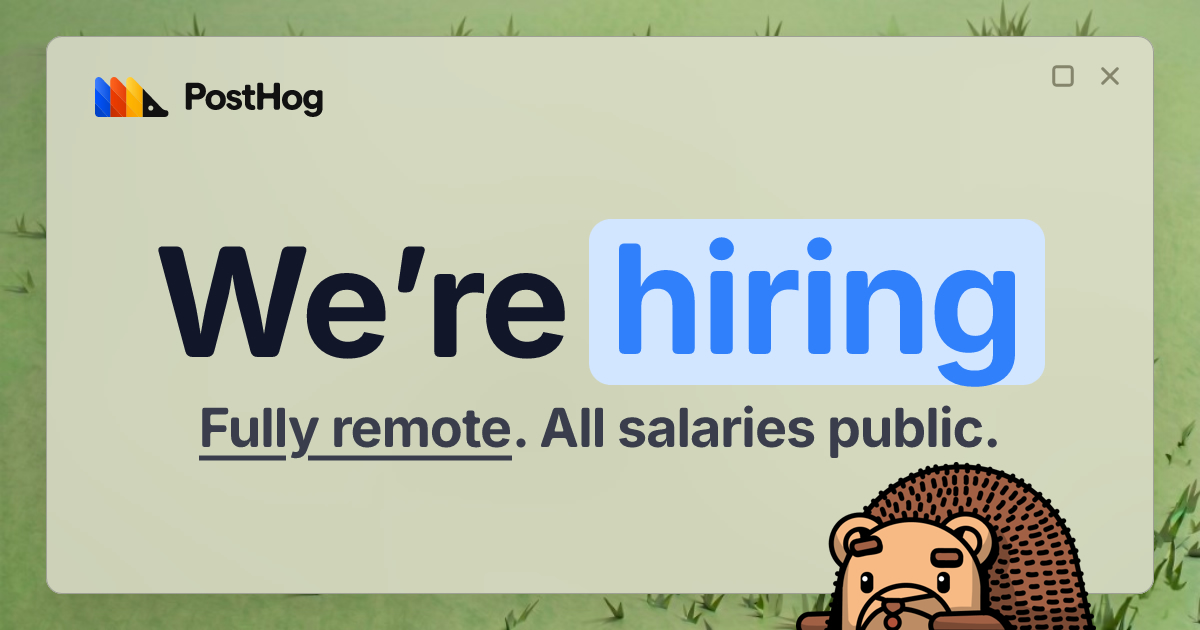
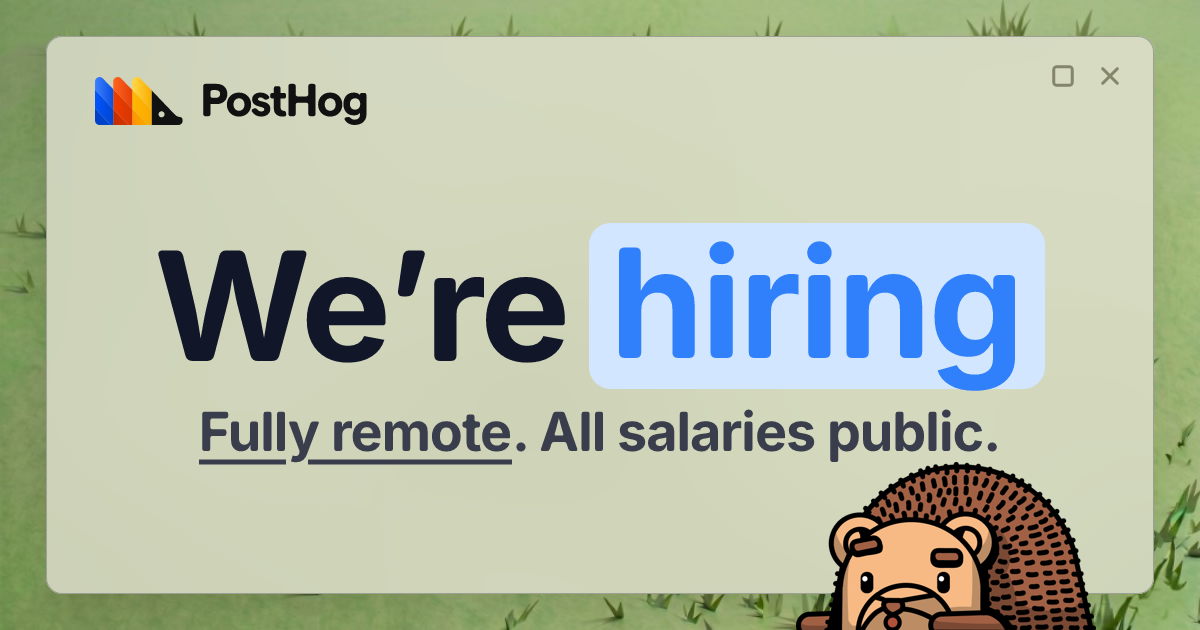
tweaks

diff --git a/src/templates/OG/job.tsx b/src/templates/OG/job.tsx
@@ -10,7 +10,7 @@ type JobOgProps = {
 
 const textSecondary = '#4D4F46'
 
-export const JobOg = ({ role, roleFontSize = 120, timezone, salary }: JobOgProps) => {
+export const JobOg = ({ role, roleFontSize = 108, timezone, salary }: JobOgProps) => {
     const facts = [
         { label: 'Location', value: 'Remote' },
         timezone ? { label: 'Timezone(s)', value: timezone } : null,
@@ -24,6 +24,7 @@ export const JobOg = ({ role, roleFontSize = 120, timezone, salary }: JobOgProps
                 <div
                     style={{
                         width: 720,
+                        marginTop: 12,
                         fontSize: roleFontSize,
                         fontWeight: 800,
                         lineHeight: `${Math.round(roleFontSize * 0.94)}px`,
@@ -36,7 +37,7 @@ export const JobOg = ({ role, roleFontSize = 120, timezone, salary }: JobOgProps
                         <div key={fact.label} style={{ display: 'flex', flexDirection: 'column' }}>
                             <div
                                 style={{
-                                    fontSize: 22,
+                                    fontSize: 26,
                                     fontWeight: 600,
                                     color: textSecondary,
                                     whiteSpace: 'nowrap',

diff --git a/src/templates/OG/window.tsx b/src/templates/OG/window.tsx
@@ -2,6 +2,7 @@ import React from 'react'
 
 type WindowOgProps = {
     children: React.ReactNode
+    outside?: React.ReactNode
 }
 
 // Sampled from the reference card, not the site theme.
@@ -23,7 +24,7 @@ const WindowControls = () => (
 
 // Desktop frame shared by Open Graph cards: grass and a frosted window.
 // The body fills the area under the title bar.
-export const WindowOg = ({ children }: WindowOgProps) => (
+export const WindowOg = ({ children, outside }: WindowOgProps) => (
     <div
         style={{
             width: 1200,
@@ -57,7 +58,7 @@ export const WindowOg = ({ children }: WindowOgProps) => (
             }}
         >
             <div style={{ padding: '40px 48px 0' }}>
-                <img src="logo" width={228} height={40} />
+                <img src="logo" width={272} height={48} />
             </div>
             <div style={{ position: 'absolute', top: 28, right: 32 }}>
                 <WindowControls />
@@ -73,5 +74,6 @@ export const WindowOg = ({ children }: WindowOgProps) => (
                 {children}
             </div>
         </div>
+        {outside}
     </div>
 )

diff --git a/gatsby/og/takumi.ts b/gatsby/og/takumi.ts
@@ -48,7 +48,7 @@ export async function registerMatterFont(renderer: Renderer, data: Buffer) {
     }
 }
 
-const ROLE_FONT_SIZE = 120
+const ROLE_FONT_SIZE = 108
 // Keep in sync with the title width and line height in src/templates/OG/job.tsx.
 const ROLE_COLUMN_WIDTH = 720
 const ROLE_LINE_HEIGHT = 0.94
